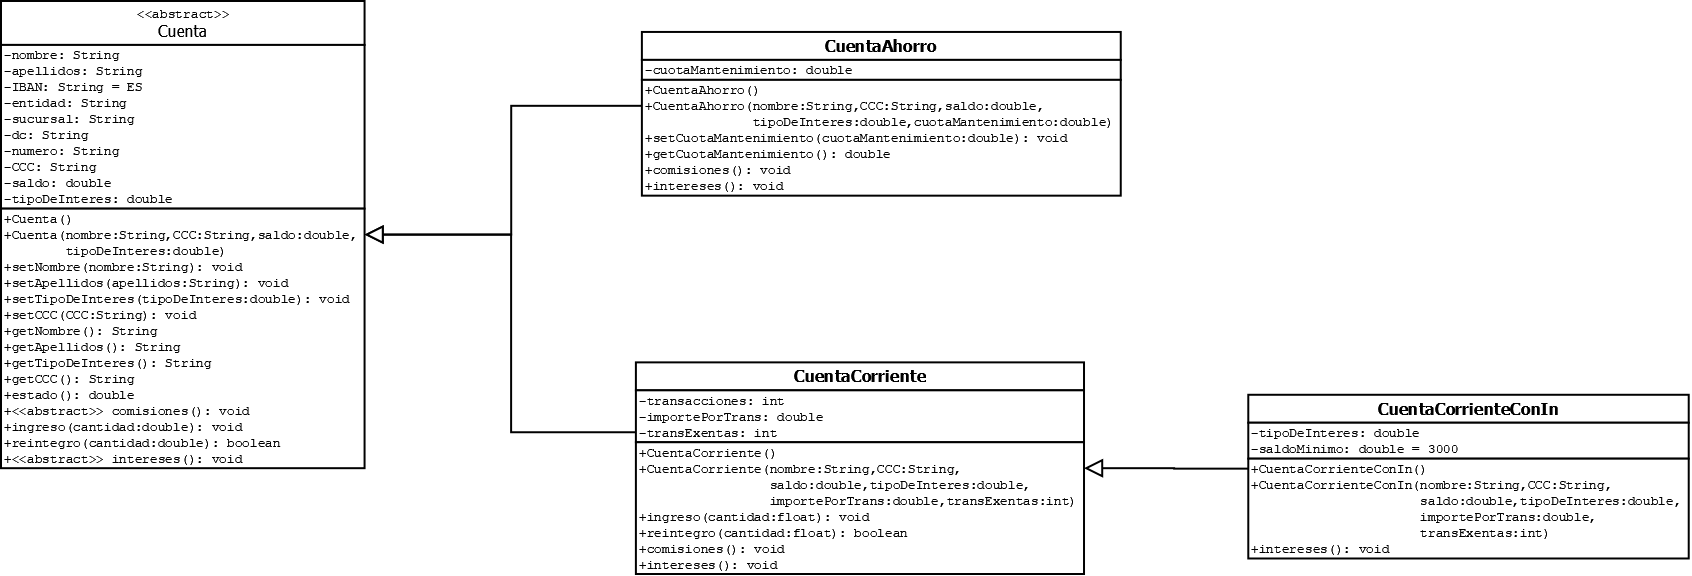
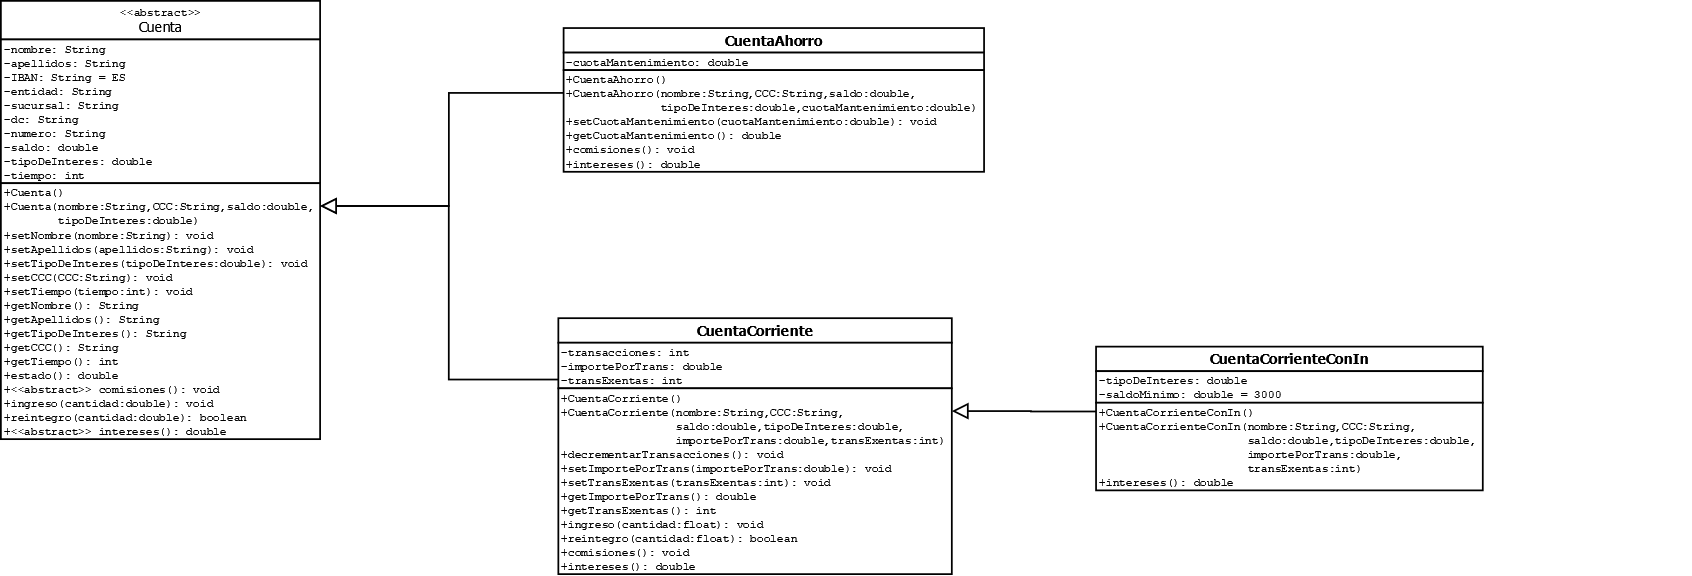
Fix diagram and start implementation

diff --git a/3ºTrimestre/src/Cuenta.java b/3ºTrimestre/src/Cuenta.java
@@ -1,0 +1,121 @@
+
+/**
+ *
+ * @author Antonio Sard González
+ */
+public abstract class Cuenta {
+    //Atributos:
+    private String nombre, apellidos, entidad, sucursal, dc, numero;
+    private final String IBAN = "ES";
+    private double tipoDeInteres, saldo;
+    private int tiempo;
+    
+    //Constructores:
+    public Cuenta() {
+    }
+
+    public Cuenta(String nombre, String CCC, double saldo, double tipoDeInteres) {
+        this.nombre = nombre;
+        CCC = CCC.trim().replaceAll(" +", "");
+        this.entidad = CCC.substring(0, 4);
+        this.sucursal = CCC.substring(4, 8);
+        this.dc = CCC.substring(8, 10);
+        this.numero = CCC.substring(10);
+        this.saldo = saldo;
+        this.tipoDeInteres = tipoDeInteres;
+    }
+    
+    //Métodos:
+    /**
+     * @return the nombre
+     */
+    public String getNombre() {
+        return nombre;
+    }
+
+    /**
+     * @param nombre the nombre to set
+     */
+    public void setNombre(String nombre) {
+        this.nombre = nombre;
+    }
+
+    /**
+     * @return the apellidos
+     */
+    public String getApellidos() {
+        return apellidos;
+    }
+
+    /**
+     * @param apellidos the apellidos to set
+     */
+    public void setApellidos(String apellidos) {
+        this.apellidos = apellidos;
+    }
+
+    /**
+     * @return the tipoDeInteres
+     */
+    public double getTipoDeInteres() {
+        return tipoDeInteres;
+    }
+
+    /**
+     * @param tipoDeInteres the tipoDeInteres to set
+     */
+    public void setTipoDeInteres(double tipoDeInteres) {
+        this.tipoDeInteres = tipoDeInteres;
+    }
+    
+    /**
+     * @return the tiempo
+     */
+    public int getTiempo() {
+        return tiempo;
+    }
+
+    /**
+     * @param tiempo the tiempo to set
+     */
+    public void setTiempo(int tiempo) {
+        this.tiempo = tiempo;
+    }
+
+    public String getCCC() {
+        return IBAN + entidad + sucursal + dc + numero;
+    }
+
+    public void setCCC(String CCC) {
+        CCC = CCC.trim().replaceAll(" +", "");
+        this.entidad = CCC.substring(0, 4);
+        this.sucursal = CCC.substring(4, 8);
+        this.dc = CCC.substring(8, 10);
+        this.numero = CCC.substring(10);
+    }
+
+    public double estado() {
+        return saldo;
+    }
+
+    public abstract void comisiones();
+
+    public void ingreso(double cantidad) {
+        saldo += cantidad;
+    }
+
+    public boolean reintegro(double cantidad) {
+        //Entorno:
+        boolean saldoSuficiente;
+        //Algoritmo:
+        saldoSuficiente = saldo - cantidad >= 0;
+        if (saldoSuficiente) {
+            saldo -= cantidad;
+        }//Fin Si
+        return saldoSuficiente;
+    }
+
+    public abstract double intereses();
+
+    
+}

diff --git a/3ºTrimestre/src/CuentaCorriente.java b/3ºTrimestre/src/CuentaCorriente.java
@@ -1,0 +1,102 @@
+
+import java.util.GregorianCalendar;
+
+/**
+ *
+ * @author Antonio Sard González
+ */
+public class CuentaCorriente extends Cuenta{
+    //Atributos:
+    private int transacciones, transExentas;
+    private double importePorTrans;
+    //Constructores:
+    public CuentaCorriente(){
+    }
+    public CuentaCorriente(String nombre, String CCC, double saldo, double tipoDeInteres,
+            double importePorTrans, int transExentas){
+        super(nombre, CCC, saldo, tipoDeInteres);
+        this.importePorTrans = importePorTrans;
+        this.transExentas = transExentas;
+    }
+    //Métodos:
+    public void decrementarTransacciones(){
+        transacciones--;
+    }
+
+    /**
+     * @return the transExentas
+     */
+    public int getTransExentas() {
+        return transExentas;
+    }
+
+    /**
+     * @param transExentas the transExentas to set
+     */
+    public void setTransExentas(int transExentas) {
+        this.transExentas = transExentas;
+    }
+
+    /**
+     * @return the importePorTrans
+     */
+    public double getImportePorTrans() {
+        return importePorTrans;
+    }
+
+    /**
+     * @param importePorTrans the importePorTrans to set
+     */
+    public void setImportePorTrans(double importePorTrans) {
+        this.importePorTrans = importePorTrans;
+    }
+    
+    public void ingreso(float cantidad){
+         super.ingreso(cantidad);
+         transacciones++;
+    }
+    
+    public boolean reintegro(float cantidad){
+        //Entorno:
+        boolean saldoSuficiente;
+        //Algoritmo:
+        saldoSuficiente = super.reintegro(cantidad);
+        if(saldoSuficiente){
+            transacciones++;
+        }//Fin Si
+        return saldoSuficiente;
+    }
+    
+    @Override
+    public void comisiones(){
+         //Entorno:
+        GregorianCalendar date;
+        //Algoritmo:
+        date = new GregorianCalendar();
+        if (date.get(GregorianCalendar.DAY_OF_MONTH) == 1) {
+            reintegro((transacciones - transExentas) * importePorTrans);
+            transacciones = 0;
+        }
+    }
+    
+    @Override
+    public double intereses(){
+        //Entorno:
+        GregorianCalendar date;
+        double importe, interes;
+        //Algoritmo:
+        date = new GregorianCalendar();
+        importe = 0;
+        if (date.get(GregorianCalendar.DAY_OF_MONTH) == 1) {
+            setTiempo(getTiempo() + 1);
+            interes = getTipoDeInteres();
+            if(interes > 0.5){
+                interes-=0.5;
+                importe = 3000;
+            }
+            importe += (estado() + interes + getTiempo()) / 1200;
+        }//Fin Si
+        return importe;
+    }
+    
+}

diff --git a/3ºTrimestre/src/CuentaAhorro.java b/3ºTrimestre/src/CuentaAhorro.java
@@ -1,0 +1,60 @@
+
+import java.util.GregorianCalendar;
+
+/**
+ *
+ * @author Antonio Sard González
+ */
+public class CuentaAhorro extends Cuenta {
+    //Atributos:
+
+    private double cuotaMantenimiento;
+
+    //Constructores:
+    public CuentaAhorro() {
+    }
+
+    public CuentaAhorro(String nombre, String CCC, double saldo, double tipoDeInteres,
+            double cuotaMantenimiento) {
+        super(nombre, CCC, saldo, tipoDeInteres);
+        this.cuotaMantenimiento = cuotaMantenimiento;
+    }
+
+    //Métodos:
+    /**
+     * @return the cuotaMantenimiento
+     */
+    public double getCuotaMantenimiento() {
+        return cuotaMantenimiento;
+    }
+
+    /**
+     * @param cuotaMantenimiento the cuotaMantenimiento to set
+     */
+    public void setCuotaMantenimiento(double cuotaMantenimiento) {
+        this.cuotaMantenimiento = cuotaMantenimiento;
+    }
+
+    @Override
+    public void comisiones() {
+        //Entorno:
+        GregorianCalendar date;
+        //Algoritmo:
+        date = new GregorianCalendar();
+        if (date.get(GregorianCalendar.DAY_OF_MONTH) == 1) {
+            reintegro(cuotaMantenimiento);
+        }
+    }
+
+    @Override
+    public double intereses() {
+        //Entorno:
+        GregorianCalendar date;
+        //Algoritmo:
+        date = new GregorianCalendar();
+        if (date.get(GregorianCalendar.DAY_OF_MONTH) == 1) {
+            setTiempo(getTiempo() + 1);          
+        }
+        return (estado() + getTipoDeInteres() + getTiempo()) / 1200;
+    }
+}
